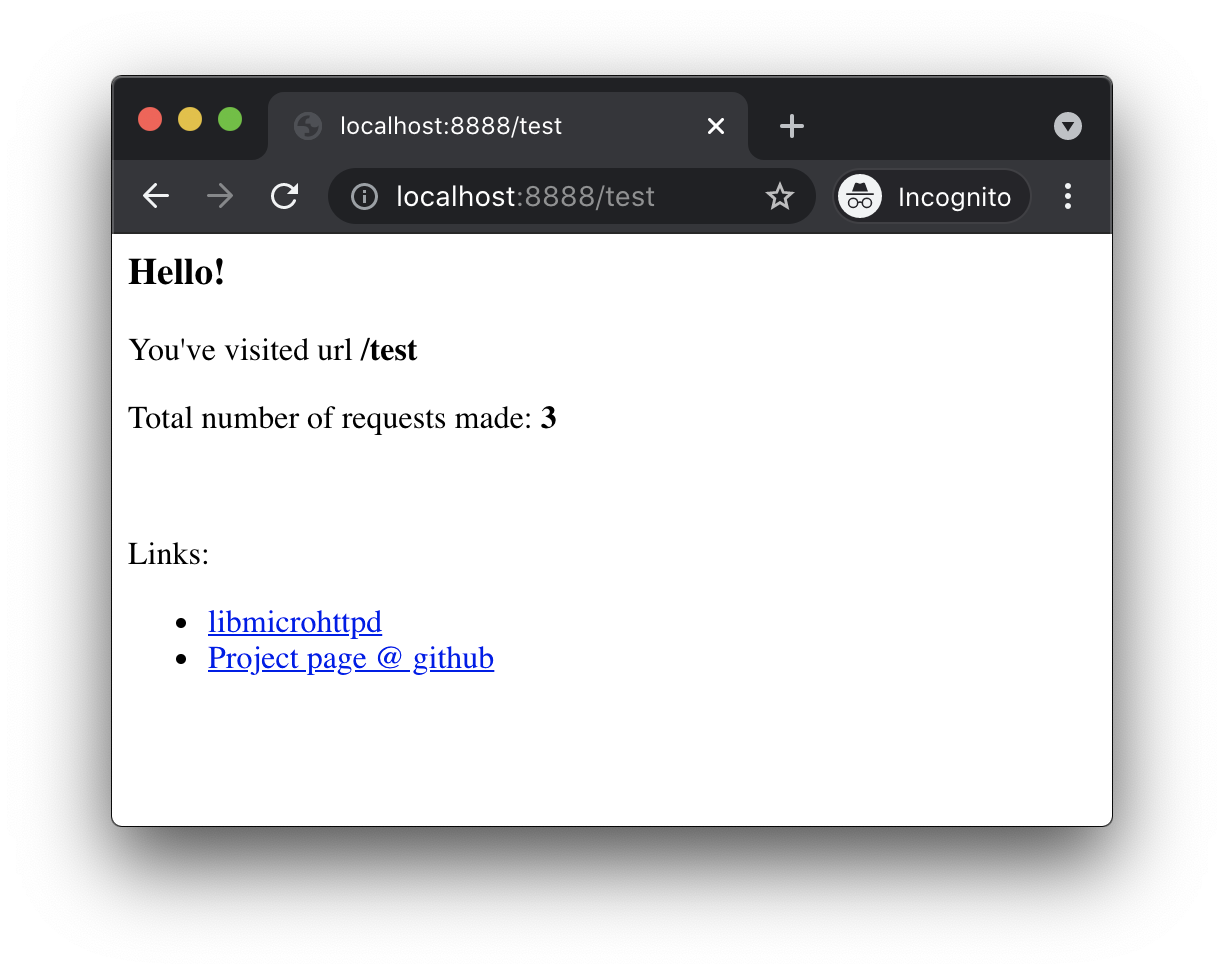
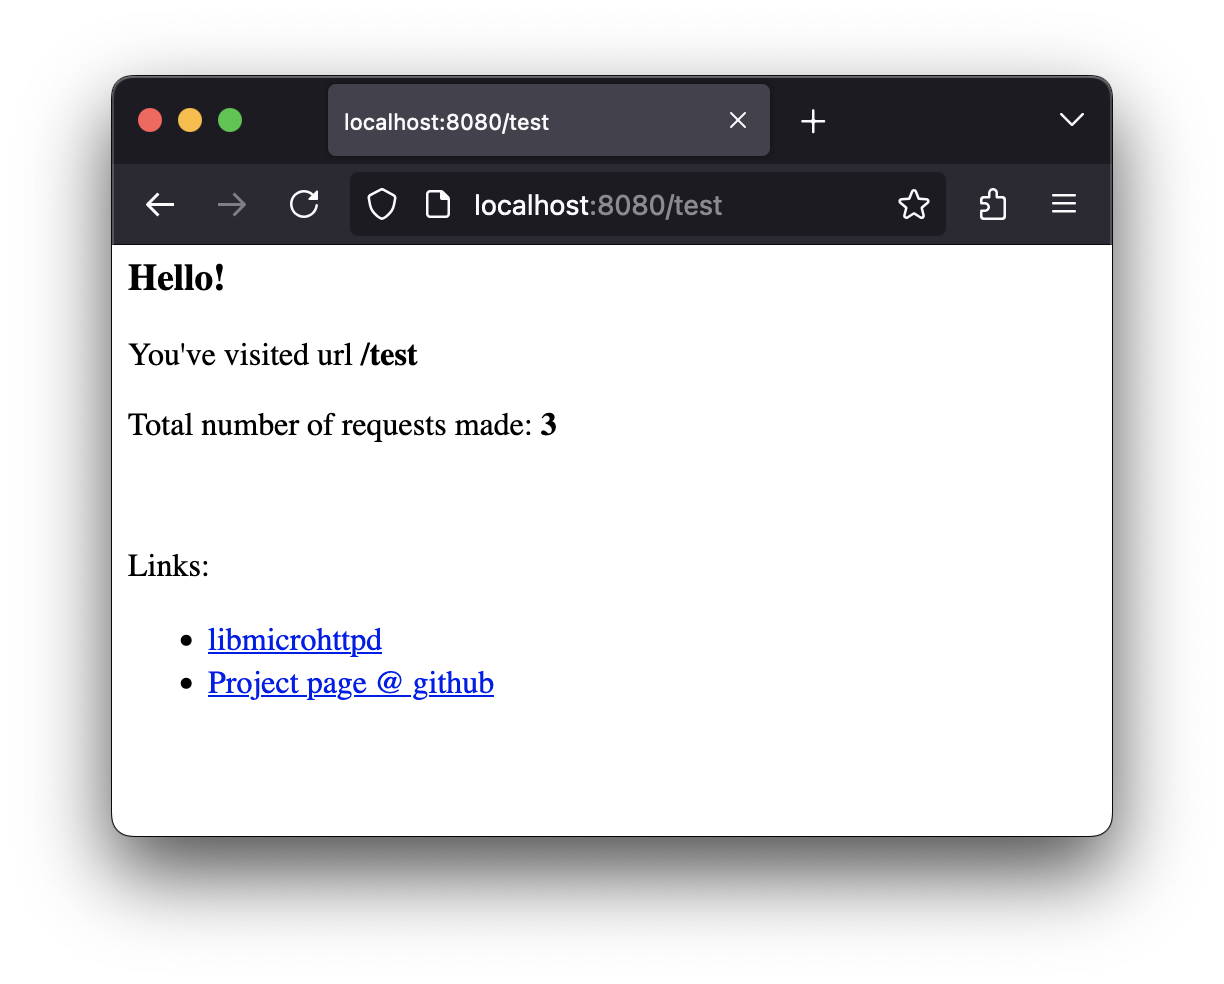
chore: readme update

diff --git a/README.md b/README.md
@@ -7,11 +7,21 @@ A simple proof of concept of Kotlin/Native app with a web server inside (C inter
 * MacOS: ✅
 * Linux: ✅
 * Windows: ✅
+* Docker: ✅
+
+## Command line options
+
+* `-p <port>` specifies port number to listen, default: 8080
+* `-d` runs program in daemon-like mode for docker where it gets terminated by POSIX signals instead of pressing enter, default: unset
+
+## Docker
+
+You can use docker to build and run an image with the web server automatically, see Dockerfile.
 
 ## Build requirements
 
 * This is a gradle project with wrapper included, so you only need installed JRE for gradle to be able to run tasks
-* Download, build and install [libmicrohttpd](https://www.gnu.org/software/libmicrohttpd/) (I've used MinGW64@[MSYS2](https://www.msys2.org/) for Windows build). Instruction is [here](https://github.com/ulion/libmicrohttpd/blob/master/INSTALL). I've used only `./configure; make; make install` without any flags or manual configuration.
+* Download, build and install [libmicrohttpd](https://www.gnu.org/software/libmicrohttpd/) (I've used MinGW64@[MSYS2](https://www.msys2.org/) for Windows build). I've used only `./configure; make; make install` without any flags or manual configuration.
 
 ## Build
 
@@ -27,9 +37,9 @@ After installing all requirements:
 
 After building run `./build/bin/native/releaseExecutable/kotlin-native-web-server.kexe` (or whatever executable file is inside). Output:
 ```
-Server is listening port 8888
+Server is listening port 8080
 Press enter to stop
 ```
-Open link http://localhost:8888/any-url in browser:
+Open link [http://localhost:8080/any-url](http://localhost:8080/any-url) in browser:
 
 ![Browser screenshot](screenshot.png)
